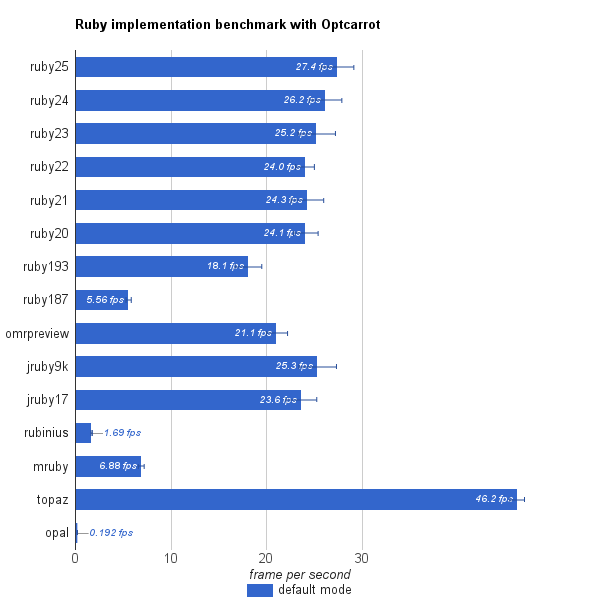
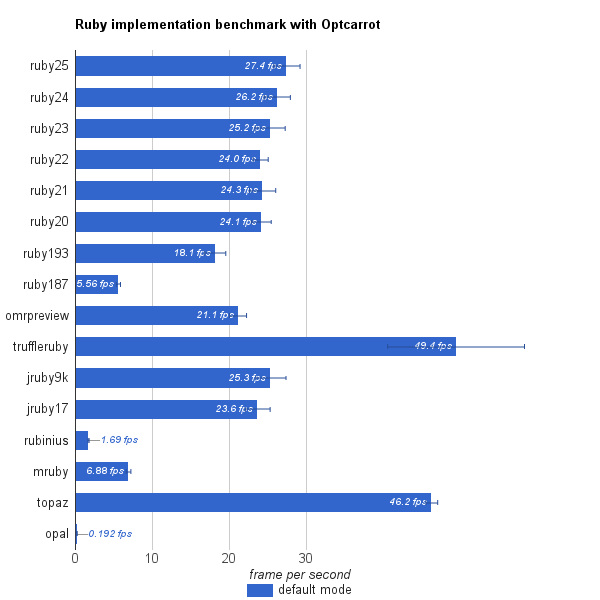
Add truffleruby into the benchmark result

diff --git a/tools/view-chart.rb b/tools/view-chart.rb
@@ -27,7 +27,7 @@ data = []
 %w(
   ruby25 ruby24 ruby23 ruby22 ruby21 ruby20 ruby193 ruby187
   omrpreview
-  jruby9k jruby17 rubinius mruby topaz opal
+  truffleruby jruby9k jruby17 rubinius mruby topaz opal
 ).each do |name|
   row = table[name]
   data << [name.dump, *(row["default"] || row["opt-none"]), *(row["opt-all"] || [0, "null", "null", "failure".dump])]
